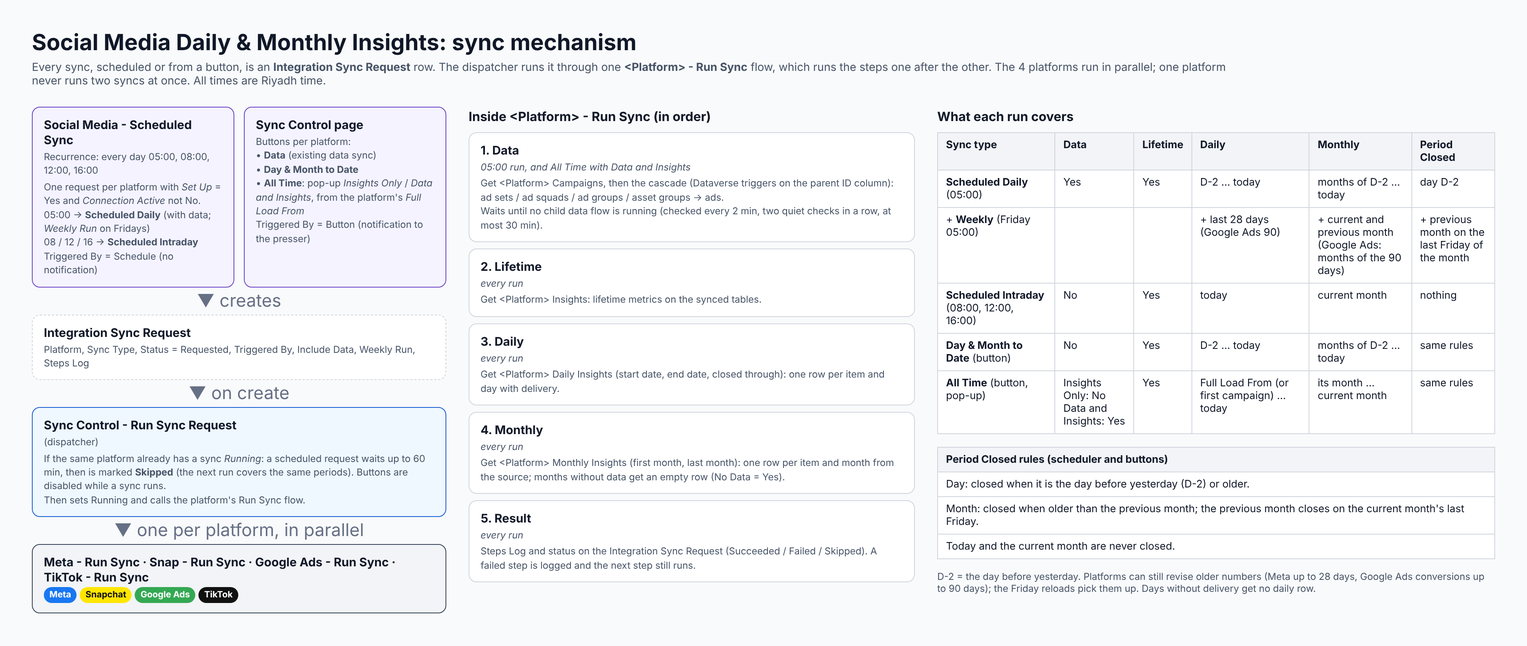
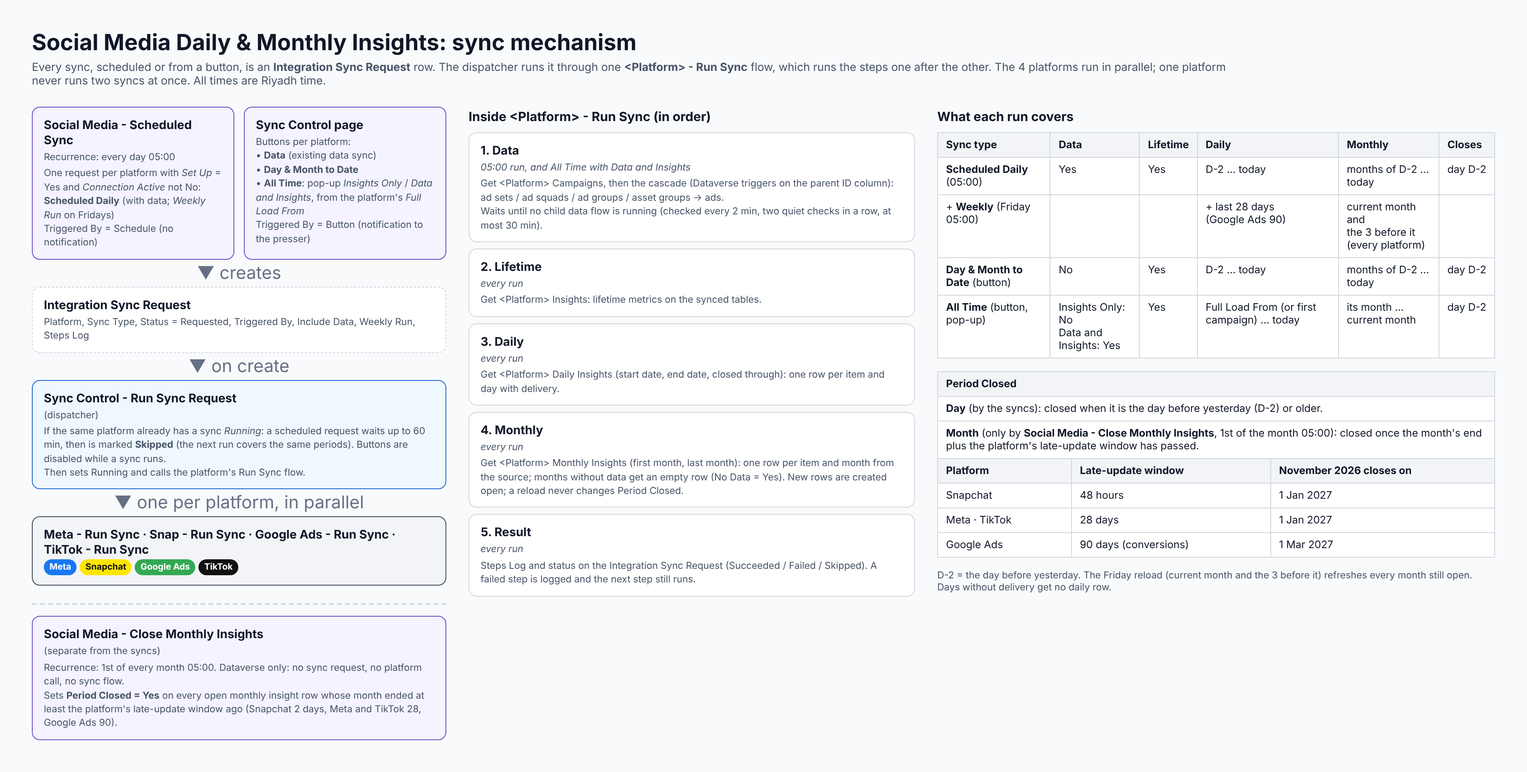
PLAN.md and scheduler diagrams: 05:00-only schedule, 4-month Friday reload, monthly closing flow
Claude-Session: https://claude.ai/code/session_011EPu7rmFPCknKk8Qn1gdBf

Changed region(s): [[0.0, 0.0308, 0.9627, 0.9556]]

diff --git a/daily-insights/diagrams/scheduler-timetable.html b/daily-insights/diagrams/scheduler-timetable.html
@@ -27,7 +27,8 @@ small { color: #475467; }
 <p class="lead">Which flows run when (Riyadh time), and which period each insight step covers. Every column runs
 for all 4 platforms in parallel: <span class="tag" style="background:#1877F2;color:#fff">Meta</span><span class="tag" style="background:#FFE600;color:#111">Snapchat</span><span class="tag" style="background:#34A853;color:#fff">Google Ads</span><span class="tag" style="background:#111111;color:#fff">TikTok</span>. A sync that would overlap the same platform's running sync waits
 up to 60 minutes, then is Skipped. The Data button (data only) works as before: the dispatcher runs the campaigns flow directly.</p>
-<table><tr><th>Level</th><th>Flows (Meta · Snap · Google Ads · TikTok)</th><th class=c>05:00<br><small>Sat – Thu</small></th><th class=c>05:00<br><small>Friday</small></th><th class=c>05:00<br><small>last Friday of the month</small></th><th class=c>08:00 · 12:00 · 16:00<br><small>every day</small></th><th class=c>Button<br><small>Data</small></th><th class=c>Button<br><small>Day &amp; Month to Date</small></th><th class=c>Button<br><small>All Time</small></th></tr><tr style="background:#F4F3FF"><td class="g">Main</td><td><b>Social Media - Scheduled Sync</b><br><small>Recurrence; creates one sync request per platform</small></td><td class=c><span class="y">●</span> Scheduled Daily</td><td class=c><span class="y">●</span> Scheduled Daily + Weekly Run</td><td class=c><span class="y">●</span> Scheduled Daily + Weekly Run</td><td class=c><span class="y">●</span> Scheduled Intraday</td><td class=c><span class="n">–</span></td><td class=c><span class="n">–</span></td><td class=c><span class="n">–</span></td></tr><tr style="background:#F4F3FF"><td class="g">Main</td><td><b>Sync Control - Run Sync Request</b><br><small>Dispatcher: runs when a sync request is created</small></td><td class=c><span class="y">●</span></td><td class=c><span class="y">●</span></td><td class=c><span class="y">●</span></td><td class=c><span class="y">●</span></td><td class=c><span class="y">●</span></td><td class=c><span class="y">●</span></td><td class=c><span class="y">●</span></td></tr><tr style="background:#F2F4F7"><td class="g">Platform</td><td><b>Meta - Run Sync<br>Snap - Run Sync<br>Google Ads - Run Sync<br>TikTok - Run Sync</b><br><small>Run the steps below in order, one platform per flow</small></td><td class=c><span class="y">●</span></td><td class=c><span class="y">●</span></td><td class=c><span class="y">●</span></td><td class=c><span class="y">●</span></td><td class=c><span class="n">–</span><br><small>the dispatcher calls Step 1 directly</small></td><td class=c><span class="y">●</span></td><td class=c><span class="y">●</span></td></tr><tr style="background:#fff"><td class="g">Step 1: Data</td><td><b>Get Meta Campaigns<br>Get Snap Campaigns<br>Get Google Ads Campaigns<br>Get TikTok Campaigns</b><br><small>Campaigns; starts the cascade below</small></td><td class=c><span class="y">●</span></td><td class=c><span class="y">●</span></td><td class=c><span class="y">●</span></td><td class=c><span class="n">–</span></td><td class=c><span class="y">●</span></td><td class=c><span class="n">–</span></td><td class=c><span class="y">●</span> with <i>Data and Insights</i></td></tr><tr style="background:#FCFCFD"><td class="g">↳ cascade</td><td><b>Get Meta AdSets<br>Get Snap Ad Squads<br>Get Google Ads Ad Groups<br>Get Google Ads Asset Groups<br>Get TikTok Ad Groups</b><br><small>Run on their own when their parent rows change</small></td><td class=c><span class="y">●</span></td><td class=c><span class="y">●</span></td><td class=c><span class="y">●</span></td><td class=c><span class="n">–</span></td><td class=c><span class="y">●</span></td><td class=c><span class="n">–</span></td><td class=c><span class="y">●</span> with <i>Data and Insights</i></td></tr><tr style="background:#FCFCFD"><td class="g">↳ cascade</td><td><b>Get Meta Advertisements<br>Get Snap Advertisements<br>Get Google Ads Advertisements<br>Get TikTok Advertisements</b><br><small>Run on their own when their parent rows change</small></td><td class=c><span class="y">●</span></td><td class=c><span class="y">●</span></td><td class=c><span class="y">●</span></td><td class=c><span class="n">–</span></td><td class=c><span class="y">●</span></td><td class=c><span class="n">–</span></td><td class=c><span class="y">●</span> with <i>Data and Insights</i></td></tr><tr style="background:#fff"><td class="g">Step 2: Lifetime</td><td><b>Get Meta Insights<br>Get Snap Insights<br>Get Google Ads Insights<br>Get TikTok Insights</b><br><small>Lifetime metrics on the 13 synced tables</small></td><td class=c><span class="y">●</span></td><td class=c><span class="y">●</span></td><td class=c><span class="y">●</span></td><td class=c><span class="y">●</span></td><td class=c><span class="n">–</span></td><td class=c><span class="y">●</span></td><td class=c><span class="y">●</span></td></tr><tr style="background:#fff"><td class="g">Step 3: Daily</td><td><b>Get Meta Daily Insights<br>Get Snap Daily Insights<br>Get Google Ads Daily Insights<br>Get TikTok Daily Insights</b><br><small>Daily insight tables</small></td><td class=c><span class="y">●</span> D-2 … today<br><small>closes D-2</small></td><td class=c><span class="y">●</span> last 28 days<br><small>Google Ads 90; closes D-2</small></td><td class=c><span class="y">●</span> last 28 days<br><small>Google Ads 90; closes D-2</small></td><td class=c><span class="y">●</span> today</td><td class=c><span class="n">–</span></td><td class=c><span class="y">●</span> D-2 … today</td><td class=c><span class="y">●</span> Full Load From … today</td></tr><tr style="background:#fff"><td class="g">Step 4: Monthly</td><td><b>Get Meta Monthly Insights<br>Get Snap Monthly Insights<br>Get Google Ads Monthly Insights<br>Get TikTok Monthly Insights</b><br><small>Monthly insight tables (empty months included)</small></td><td class=c><span class="y">●</span> months of D-2 … today</td><td class=c><span class="y">●</span> current + previous month<br><small>Google Ads: months of the 90 days</small></td><td class=c><span class="y">●</span> current + previous month<br><small>closes the previous month</small></td><td class=c><span class="y">●</span> current month</td><td class=c><span class="n">–</span></td><td class=c><span class="y">●</span> months of D-2 … today</td><td class=c><span class="y">●</span> every month from the start</td></tr></table>
-<p class="note" style="margin-top:12px">D-2 = the day before yesterday. Typical duration of a run in UAT: 05:00
-12 – 60 min, intraday 5 – 35 min per platform; an All Time full load takes hours (Snap / TikTok ≈ 19 h).</p>
+<table><tr><th>Level</th><th>Flows (Meta · Snap · Google Ads · TikTok)</th><th class=c>05:00<br><small>Sat – Thu</small></th><th class=c>05:00<br><small>Friday</small></th><th class=c>05:00<br><small>1st of the month</small></th><th class=c>Button<br><small>Data</small></th><th class=c>Button<br><small>Day &amp; Month to Date</small></th><th class=c>Button<br><small>All Time</small></th></tr><tr style="background:#F4F3FF"><td class="g">Main</td><td><b>Social Media - Scheduled Sync</b><br><small>Recurrence; creates one sync request per platform</small></td><td class=c><span class="y">●</span> Scheduled Daily</td><td class=c><span class="y">●</span> Scheduled Daily + Weekly Run</td><td class=c><span class="y">●</span> Scheduled Daily<br><small>(+ Weekly Run if a Friday)</small></td><td class=c><span class="n">–</span></td><td class=c><span class="n">–</span></td><td class=c><span class="n">–</span></td></tr><tr style="background:#F4F3FF"><td class="g">Main</td><td><b>Sync Control - Run Sync Request</b><br><small>Dispatcher: runs when a sync request is created</small></td><td class=c><span class="y">●</span></td><td class=c><span class="y">●</span></td><td class=c><span class="y">●</span></td><td class=c><span class="y">●</span></td><td class=c><span class="y">●</span></td><td class=c><span class="y">●</span></td></tr><tr style="background:#F2F4F7"><td class="g">Platform</td><td><b>Meta - Run Sync<br>Snap - Run Sync<br>Google Ads - Run Sync<br>TikTok - Run Sync</b><br><small>Run the steps below in order, one platform per flow</small></td><td class=c><span class="y">●</span></td><td class=c><span class="y">●</span></td><td class=c><span class="y">●</span></td><td class=c><span class="n">–</span><br><small>the dispatcher calls Step 1 directly</small></td><td class=c><span class="y">●</span></td><td class=c><span class="y">●</span></td></tr><tr style="background:#fff"><td class="g">Step 1: Data</td><td><b>Get Meta Campaigns<br>Get Snap Campaigns<br>Get Google Ads Campaigns<br>Get TikTok Campaigns</b><br><small>Campaigns; starts the cascade below</small></td><td class=c><span class="y">●</span></td><td class=c><span class="y">●</span></td><td class=c><span class="y">●</span></td><td class=c><span class="y">●</span></td><td class=c><span class="n">–</span></td><td class=c><span class="y">●</span> with <i>Data and Insights</i></td></tr><tr style="background:#FCFCFD"><td class="g">↳ cascade</td><td><b>Get Meta AdSets<br>Get Snap Ad Squads<br>Get Google Ads Ad Groups<br>Get Google Ads Asset Groups<br>Get TikTok Ad Groups</b><br><small>Run on their own when their parent rows change</small></td><td class=c><span class="y">●</span></td><td class=c><span class="y">●</span></td><td class=c><span class="y">●</span></td><td class=c><span class="y">●</span></td><td class=c><span class="n">–</span></td><td class=c><span class="y">●</span> with <i>Data and Insights</i></td></tr><tr style="background:#FCFCFD"><td class="g">↳ cascade</td><td><b>Get Meta Advertisements<br>Get Snap Advertisements<br>Get Google Ads Advertisements<br>Get TikTok Advertisements</b><br><small>Run on their own when their parent rows change</small></td><td class=c><span class="y">●</span></td><td class=c><span class="y">●</span></td><td class=c><span class="y">●</span></td><td class=c><span class="y">●</span></td><td class=c><span class="n">–</span></td><td class=c><span class="y">●</span> with <i>Data and Insights</i></td></tr><tr style="background:#fff"><td class="g">Step 2: Lifetime</td><td><b>Get Meta Insights<br>Get Snap Insights<br>Get Google Ads Insights<br>Get TikTok Insights</b><br><small>Lifetime metrics on the 13 synced tables</small></td><td class=c><span class="y">●</span></td><td class=c><span class="y">●</span></td><td class=c><span class="y">●</span></td><td class=c><span class="n">–</span></td><td class=c><span class="y">●</span></td><td class=c><span class="y">●</span></td></tr><tr style="background:#fff"><td class="g">Step 3: Daily</td><td><b>Get Meta Daily Insights<br>Get Snap Daily Insights<br>Get Google Ads Daily Insights<br>Get TikTok Daily Insights</b><br><small>Daily insight tables</small></td><td class=c><span class="y">●</span> D-2 … today<br><small>closes D-2</small></td><td class=c><span class="y">●</span> last 28 days<br><small>Google Ads 90; closes D-2</small></td><td class=c><span class="y">●</span> as that day's run</td><td class=c><span class="n">–</span></td><td class=c><span class="y">●</span> D-2 … today</td><td class=c><span class="y">●</span> Full Load From … today</td></tr><tr style="background:#fff"><td class="g">Step 4: Monthly</td><td><b>Get Meta Monthly Insights<br>Get Snap Monthly Insights<br>Get Google Ads Monthly Insights<br>Get TikTok Monthly Insights</b><br><small>Monthly insight tables (empty months included); never closes</small></td><td class=c><span class="y">●</span> months of D-2 … today</td><td class=c><span class="y">●</span> current month + the 3 before it<br><small>every platform</small></td><td class=c><span class="y">●</span> as that day's run</td><td class=c><span class="n">–</span></td><td class=c><span class="y">●</span> months of D-2 … today</td><td class=c><span class="y">●</span> every month from the start</td></tr><tr style="background:#FEF6EE"><td class="g">Closing</td><td><b>Social Media - Close Monthly Insights</b><br><small>Separate from the syncs (Dataverse only): sets Period Closed on monthly rows</small></td><td class=c><span class="n">–</span></td><td class=c><span class="n">–</span></td><td class=c><span class="y">●</span> months past the late-update window<br><small>Snapchat 2 days · Meta, TikTok 28 · Google Ads 90</small></td><td class=c><span class="n">–</span></td><td class=c><span class="n">–</span></td><td class=c><span class="n">–</span></td></tr></table>
+<p class="note" style="margin-top:12px">D-2 = the day before yesterday. Typical duration of a 05:00 run in UAT:
+12 – 60 min per platform; an All Time full load takes hours (Snap / TikTok ≈ 19 h). Revised 3 November 2026: no
+08:00 / 12:00 / 16:00 runs; months are closed only by Social Media - Close Monthly Insights.</p>
 </div></body></html>

diff --git a/daily-insights/diagrams/scheduler-mechanism.html b/daily-insights/diagrams/scheduler-mechanism.html
@@ -26,9 +26,9 @@ parallel; one platform never runs two syncs at once. All times are Riyadh time.<
  <div style="width:520px">
   <div style="display:flex; gap:12px">
    <div class="flow main" style="flex:1"><b>Social Media - Scheduled Sync</b>
-    <small>Recurrence: every day 05:00, 08:00, 12:00, 16:00</small>
-    <small>One request per platform with <i>Set Up</i> = Yes and <i>Connection Active</i> not No.<br>
-    05:00 → <b>Scheduled Daily</b> (with data; <i>Weekly Run</i> on Fridays)<br>08 / 12 / 16 → <b>Scheduled Intraday</b><br>
+    <small>Recurrence: every day 05:00</small>
+    <small>One request per platform with <i>Set Up</i> = Yes and <i>Connection Active</i> not No:
+    <b>Scheduled Daily</b> (with data; <i>Weekly Run</i> on Fridays)<br>
     Triggered By = Schedule (no notification)</small></div>
    <div class="flow main" style="flex:1"><b>Sync Control page</b>
     <small>Buttons per platform:<br>• <b>Data</b> (existing data sync)<br>• <b>Day &amp; Month to Date</b><br>
@@ -46,32 +46,39 @@ parallel; one platform never runs two syncs at once. All times are Riyadh time.<
   <div class="arrow">▼ one per platform, in parallel</div>
   <div class="flow run"><b>Meta - Run Sync · Snap - Run Sync · Google Ads - Run Sync · TikTok - Run Sync</b>
    <small><span class="tag" style="background:#1877F2;color:#fff">Meta</span><span class="tag" style="background:#FFE600;color:#111">Snapchat</span><span class="tag" style="background:#34A853;color:#fff">Google Ads</span><span class="tag" style="background:#111111;color:#fff">TikTok</span></small></div>
+  <div style="border-top:2px dashed #D0D5DD; margin:22px 0 14px"></div>
+  <div class="flow main"><b>Social Media - Close Monthly Insights</b> <small>(separate from the syncs)</small>
+   <small>Recurrence: 1st of every month 05:00. Dataverse only: no sync request, no platform call, no sync flow.<br>
+   Sets <b>Period Closed = Yes</b> on every open monthly insight row whose month ended at least the platform's
+   late-update window ago (Snapchat 2 days, Meta and TikTok 28, Google Ads 90).</small></div>
  </div>
  <div style="width:560px">
   <div style="font-size:16px; font-weight:700; margin:2px 0 10px">Inside &lt;Platform&gt; - Run Sync (in order)</div>
-  <div class="flow" style="margin-bottom:8px"><b>1. Data</b><small><i>05:00 run, and All Time with <i>Data and Insights</i></i></small><small>Get &lt;Platform&gt; Campaigns, then the cascade (Dataverse triggers on the parent ID column): ad sets / ad squads / ad groups / asset groups → ads.<br>Waits until no child data flow is running (checked every 2 min, two quiet checks in a row, at most 30 min).</small></div><div class="flow" style="margin-bottom:8px"><b>2. Lifetime</b><small><i>every run</i></small><small>Get &lt;Platform&gt; Insights: lifetime metrics on the synced tables.</small></div><div class="flow" style="margin-bottom:8px"><b>3. Daily</b><small><i>every run</i></small><small>Get &lt;Platform&gt; Daily Insights (start date, end date, closed through): one row per item and day with delivery.</small></div><div class="flow" style="margin-bottom:8px"><b>4. Monthly</b><small><i>every run</i></small><small>Get &lt;Platform&gt; Monthly Insights (first month, last month): one row per item and month from the source; months without data get an empty row (No Data = Yes).</small></div><div class="flow" style="margin-bottom:8px"><b>5. Result</b><small><i>every run</i></small><small>Steps Log and status on the Integration Sync Request (Succeeded / Failed / Skipped). A failed step is logged and the next step still runs.</small></div>
+  <div class="flow" style="margin-bottom:8px"><b>1. Data</b><small><i>05:00 run, and All Time with <i>Data and Insights</i></i></small><small>Get &lt;Platform&gt; Campaigns, then the cascade (Dataverse triggers on the parent ID column): ad sets / ad squads / ad groups / asset groups → ads.<br>Waits until no child data flow is running (checked every 2 min, two quiet checks in a row, at most 30 min).</small></div><div class="flow" style="margin-bottom:8px"><b>2. Lifetime</b><small><i>every run</i></small><small>Get &lt;Platform&gt; Insights: lifetime metrics on the synced tables.</small></div><div class="flow" style="margin-bottom:8px"><b>3. Daily</b><small><i>every run</i></small><small>Get &lt;Platform&gt; Daily Insights (start date, end date, closed through): one row per item and day with delivery.</small></div><div class="flow" style="margin-bottom:8px"><b>4. Monthly</b><small><i>every run</i></small><small>Get &lt;Platform&gt; Monthly Insights (first month, last month): one row per item and month from the source; months without data get an empty row (No Data = Yes). New rows are created open; a reload never changes Period Closed.</small></div><div class="flow" style="margin-bottom:8px"><b>5. Result</b><small><i>every run</i></small><small>Steps Log and status on the Integration Sync Request (Succeeded / Failed / Skipped). A failed step is logged and the next step still runs.</small></div>
  </div>
  <div style="width:700px">
   <div style="font-size:16px; font-weight:700; margin:2px 0 10px">What each run covers</div>
   
 <table>
-<tr><th>Sync type</th><th>Data</th><th>Lifetime</th><th>Daily</th><th>Monthly</th><th>Period Closed</th></tr>
-<tr><td><b>Scheduled Daily</b> (05:00)</td><td>Yes</td><td>Yes</td><td>D-2 … today</td><td>months of D-2 … today</td><td>day D-2</td></tr>
-<tr><td>+ <b>Weekly</b> (Friday 05:00)</td><td></td><td></td><td>+ last 28 days<br>(Google Ads 90)</td><td>+ current and previous month<br>(Google Ads: months of the 90 days)</td><td>+ previous month on the<br>last Friday of the month</td></tr>
-<tr><td><b>Scheduled Intraday</b> (08:00, 12:00, 16:00)</td><td>No</td><td>Yes</td><td>today</td><td>current month</td><td>nothing</td></tr>
-<tr><td><b>Day &amp; Month to Date</b> (button)</td><td>No</td><td>Yes</td><td>D-2 … today</td><td>months of D-2 … today</td><td>same rules</td></tr>
-<tr><td><b>All Time</b> (button, pop-up)</td><td>Insights Only: No<br>Data and Insights: Yes</td><td>Yes</td><td>Full Load From (or first campaign) … today</td><td>its month … current month</td><td>same rules</td></tr>
+<tr><th>Sync type</th><th>Data</th><th>Lifetime</th><th>Daily</th><th>Monthly</th><th>Closes</th></tr>
+<tr><td><b>Scheduled Daily</b> (05:00)</td><td>Yes</td><td>Yes</td><td>D-2 … today</td><td>months of D-2 … today</td><td style="white-space:nowrap">day D-2</td></tr>
+<tr><td>+ <b>Weekly</b> (Friday 05:00)</td><td></td><td></td><td>+ last 28 days<br>(Google Ads 90)</td><td>current month and<br>the 3 before it<br>(every platform)</td><td></td></tr>
+<tr><td><b>Day &amp; Month to Date</b> (button)</td><td>No</td><td>Yes</td><td>D-2 … today</td><td>months of D-2 … today</td><td style="white-space:nowrap">day D-2</td></tr>
+<tr><td><b>All Time</b> (button, pop-up)</td><td>Insights Only: No<br>Data and Insights: Yes</td><td>Yes</td><td>Full Load From (or first campaign) … today</td><td>its month … current month</td><td style="white-space:nowrap">day D-2</td></tr>
 </table>
   <div style="height:16px"></div>
   
 <table>
-<tr><th>Period Closed rules (scheduler and buttons)</th></tr>
-<tr><td>Day: closed when it is the day before yesterday (D-2) or older.</td></tr>
-<tr><td>Month: closed when older than the previous month; the previous month closes on the current month's last Friday.</td></tr>
-<tr><td>Today and the current month are never closed.</td></tr>
+<tr><th colspan="3">Period Closed</th></tr>
+<tr><td colspan="3"><b>Day</b> (by the syncs): closed when it is the day before yesterday (D-2) or older.</td></tr>
+<tr><td colspan="3"><b>Month</b> (only by <b>Social Media - Close Monthly Insights</b>, 1st of the month 05:00): closed once
+the month's end plus the platform's late-update window has passed.</td></tr>
+<tr><th>Platform</th><th>Late-update window</th><th>November 2026 closes on</th></tr>
+<tr><td>Snapchat</td><td>48 hours</td><td>1 Jan 2027</td></tr>
+<tr><td>Meta · TikTok</td><td>28 days</td><td>1 Jan 2027</td></tr>
+<tr><td>Google Ads</td><td>90 days (conversions)</td><td>1 Mar 2027</td></tr>
 </table>
-  <p class="note" style="margin-top:14px">D-2 = the day before yesterday. Platforms can still revise older numbers
-  (Meta up to 28 days, Google Ads conversions up to 90 days); the Friday reloads pick them up.
-  Days without delivery get no daily row.</p>
+  <p class="note" style="margin-top:14px">D-2 = the day before yesterday. The Friday reload (current month and the
+  3 before it) refreshes every month still open. Days without delivery get no daily row.</p>
  </div>
 </div></div></body></html>

diff --git a/daily-insights/diagrams/build_diagrams.py b/daily-insights/diagrams/build_diagrams.py
@@ -223,7 +223,8 @@ def mechanism():
         ("3. Daily", "every run", "Get &lt;Platform&gt; Daily Insights (start date, end date, closed through): one row "
          "per item and day with delivery."),
         ("4. Monthly", "every run", "Get &lt;Platform&gt; Monthly Insights (first month, last month): one row per item and "
-         "month from the source; months without data get an empty row (No Data = Yes)."),
+         "month from the source; months without data get an empty row (No Data = Yes). New rows are created open; "
+         "a reload never changes Period Closed."),
         ("5. Result", "every run", "Steps Log and status on the Integration Sync Request (Succeeded / Failed / "
          "Skipped). A failed step is logged and the next step still runs."),
     ]
@@ -232,19 +233,22 @@ def mechanism():
         for s, w, d in steps)
     cover = """
 <table>
-<tr><th>Sync type</th><th>Data</th><th>Lifetime</th><th>Daily</th><th>Monthly</th><th>Period Closed</th></tr>
-<tr><td><b>Scheduled Daily</b> (05:00)</td><td>Yes</td><td>Yes</td><td>D-2 … today</td><td>months of D-2 … today</td><td>day D-2</td></tr>
-<tr><td>+ <b>Weekly</b> (Friday 05:00)</td><td></td><td></td><td>+ last 28 days<br>(Google Ads 90)</td><td>+ current and previous month<br>(Google Ads: months of the 90 days)</td><td>+ previous month on the<br>last Friday of the month</td></tr>
-<tr><td><b>Scheduled Intraday</b> (08:00, 12:00, 16:00)</td><td>No</td><td>Yes</td><td>today</td><td>current month</td><td>nothing</td></tr>
-<tr><td><b>Day &amp; Month to Date</b> (button)</td><td>No</td><td>Yes</td><td>D-2 … today</td><td>months of D-2 … today</td><td>same rules</td></tr>
-<tr><td><b>All Time</b> (button, pop-up)</td><td>Insights Only: No<br>Data and Insights: Yes</td><td>Yes</td><td>Full Load From (or first campaign) … today</td><td>its month … current month</td><td>same rules</td></tr>
+<tr><th>Sync type</th><th>Data</th><th>Lifetime</th><th>Daily</th><th>Monthly</th><th>Closes</th></tr>
+<tr><td><b>Scheduled Daily</b> (05:00)</td><td>Yes</td><td>Yes</td><td>D-2 … today</td><td>months of D-2 … today</td><td style="white-space:nowrap">day D-2</td></tr>
+<tr><td>+ <b>Weekly</b> (Friday 05:00)</td><td></td><td></td><td>+ last 28 days<br>(Google Ads 90)</td><td>current month and<br>the 3 before it<br>(every platform)</td><td></td></tr>
+<tr><td><b>Day &amp; Month to Date</b> (button)</td><td>No</td><td>Yes</td><td>D-2 … today</td><td>months of D-2 … today</td><td style="white-space:nowrap">day D-2</td></tr>
+<tr><td><b>All Time</b> (button, pop-up)</td><td>Insights Only: No<br>Data and Insights: Yes</td><td>Yes</td><td>Full Load From (or first campaign) … today</td><td>its month … current month</td><td style="white-space:nowrap">day D-2</td></tr>
 </table>"""
     closed = """
 <table>
-<tr><th>Period Closed rules (scheduler and buttons)</th></tr>
-<tr><td>Day: closed when it is the day before yesterday (D-2) or older.</td></tr>
-<tr><td>Month: closed when older than the previous month; the previous month closes on the current month's last Friday.</td></tr>
-<tr><td>Today and the current month are never closed.</td></tr>
+<tr><th colspan="3">Period Closed</th></tr>
+<tr><td colspan="3"><b>Day</b> (by the syncs): closed when it is the day before yesterday (D-2) or older.</td></tr>
+<tr><td colspan="3"><b>Month</b> (only by <b>Social Media - Close Monthly Insights</b>, 1st of the month 05:00): closed once
+the month's end plus the platform's late-update window has passed.</td></tr>
+<tr><th>Platform</th><th>Late-update window</th><th>November 2026 closes on</th></tr>
+<tr><td>Snapchat</td><td>48 hours</td><td>1 Jan 2027</td></tr>
+<tr><td>Meta · TikTok</td><td>28 days</td><td>1 Jan 2027</td></tr>
+<tr><td>Google Ads</td><td>90 days (conversions)</td><td>1 Mar 2027</td></tr>
 </table>"""
     return f"""<!doctype html><html><head><meta charset="utf-8"><style>{CSS}</style></head><body><div class="page">
 <h1>Social Media Daily &amp; Monthly Insights: sync mechanism</h1>
@@ -255,9 +259,9 @@ parallel; one platform never runs two syncs at once. All times are Riyadh time.<
  <div style="width:520px">
   <div style="display:flex; gap:12px">
    <div class="flow main" style="flex:1"><b>Social Media - Scheduled Sync</b>
-    <small>Recurrence: every day 05:00, 08:00, 12:00, 16:00</small>
-    <small>One request per platform with <i>Set Up</i> = Yes and <i>Connection Active</i> not No.<br>
-    05:00 → <b>Scheduled Daily</b> (with data; <i>Weekly Run</i> on Fridays)<br>08 / 12 / 16 → <b>Scheduled Intraday</b><br>
+    <small>Recurrence: every day 05:00</small>
+    <small>One request per platform with <i>Set Up</i> = Yes and <i>Connection Active</i> not No:
+    <b>Scheduled Daily</b> (with data; <i>Weekly Run</i> on Fridays)<br>
     Triggered By = Schedule (no notification)</small></div>
    <div class="flow main" style="flex:1"><b>Sync Control page</b>
     <small>Buttons per platform:<br>• <b>Data</b> (existing data sync)<br>• <b>Day &amp; Month to Date</b><br>
@@ -275,6 +279,11 @@ parallel; one platform never runs two syncs at once. All times are Riyadh time.<
   <div class="arrow">▼ one per platform, in parallel</div>
   <div class="flow run"><b>Meta - Run Sync · Snap - Run Sync · Google Ads - Run Sync · TikTok - Run Sync</b>
    <small>{platform_tags()}</small></div>
+  <div style="border-top:2px dashed #D0D5DD; margin:22px 0 14px"></div>
+  <div class="flow main"><b>Social Media - Close Monthly Insights</b> <small>(separate from the syncs)</small>
+   <small>Recurrence: 1st of every month 05:00. Dataverse only: no sync request, no platform call, no sync flow.<br>
+   Sets <b>Period Closed = Yes</b> on every open monthly insight row whose month ended at least the platform's
+   late-update window ago (Snapchat 2 days, Meta and TikTok 28, Google Ads 90).</small></div>
  </div>
  <div style="width:560px">
   <div style="font-size:16px; font-weight:700; margin:2px 0 10px">Inside &lt;Platform&gt; - Run Sync (in order)</div>
@@ -285,9 +294,8 @@ parallel; one platform never runs two syncs at once. All times are Riyadh time.<
   {cover}
   <div style="height:16px"></div>
   {closed}
-  <p class="note" style="margin-top:14px">D-2 = the day before yesterday. Platforms can still revise older numbers
-  (Meta up to 28 days, Google Ads conversions up to 90 days); the Friday reloads pick them up.
-  Days without delivery get no daily row.</p>
+  <p class="note" style="margin-top:14px">D-2 = the day before yesterday. The Friday reload (current month and the
+  3 before it) refreshes every month still open. Days without delivery get no daily row.</p>
  </div>
 </div></div></body></html>"""
 
@@ -309,43 +317,45 @@ def timetable():
         "run": ["Meta - Run Sync", "Snap - Run Sync", "Google Ads - Run Sync", "TikTok - Run Sync"],
     }
     cols = ["05:00<br><small>Sat – Thu</small>", "05:00<br><small>Friday</small>",
-            "05:00<br><small>last Friday of the month</small>", "08:00 · 12:00 · 16:00<br><small>every day</small>",
+            "05:00<br><small>1st of the month</small>",
             "Button<br><small>Data</small>", "Button<br><small>Day &amp; Month to Date</small>",
             "Button<br><small>All Time</small>"]
     Y = '<span class="y">●</span>'
     N = '<span class="n">–</span>'
     rows = [
         ("Main", "Social Media - Scheduled Sync", "Recurrence; creates one sync request per platform",
-         [Y + " Scheduled Daily", Y + " Scheduled Daily + Weekly Run", Y + " Scheduled Daily + Weekly Run",
-          Y + " Scheduled Intraday", N, N, N]),
+         [Y + " Scheduled Daily", Y + " Scheduled Daily + Weekly Run",
+          Y + " Scheduled Daily<br><small>(+ Weekly Run if a Friday)</small>", N, N, N]),
         ("Main", "Sync Control - Run Sync Request", "Dispatcher: runs when a sync request is created",
-         [Y] * 7),
+         [Y] * 6),
         ("Platform", " · ".join(names["run"]), "Run the steps below in order, one platform per flow",
-         [Y] * 4 + [N + "<br><small>the dispatcher calls Step 1 directly</small>", Y, Y]),
+         [Y] * 3 + [N + "<br><small>the dispatcher calls Step 1 directly</small>", Y, Y]),
         ("Step 1: Data", " · ".join(names["data"]), "Campaigns; starts the cascade below",
-         [Y, Y, Y, N, Y, N, Y + " with <i>Data and Insights</i>"]),
+         [Y, Y, Y, Y, N, Y + " with <i>Data and Insights</i>"]),
         ("cascade", " · ".join(names["child1"]), "Run on their own when their parent rows change",
-         [Y, Y, Y, N, Y, N, Y + " with <i>Data and Insights</i>"]),
+         [Y, Y, Y, Y, N, Y + " with <i>Data and Insights</i>"]),
         ("cascade", " · ".join(names["child2"]), "Run on their own when their parent rows change",
-         [Y, Y, Y, N, Y, N, Y + " with <i>Data and Insights</i>"]),
+         [Y, Y, Y, Y, N, Y + " with <i>Data and Insights</i>"]),
         ("Step 2: Lifetime", " · ".join(names["life"]), "Lifetime metrics on the 13 synced tables",
-         [Y] * 4 + [N, Y, Y]),
+         [Y] * 3 + [N, Y, Y]),
         ("Step 3: Daily", " · ".join(names["daily"]), "Daily insight tables",
          [Y + " D-2 … today<br><small>closes D-2</small>",
           Y + " last 28 days<br><small>Google Ads 90; closes D-2</small>",
-          Y + " last 28 days<br><small>Google Ads 90; closes D-2</small>",
-          Y + " today", N, Y + " D-2 … today", Y + " Full Load From … today"]),
-        ("Step 4: Monthly", " · ".join(names["monthly"]), "Monthly insight tables (empty months included)",
-         [Y + " months of D-2 … today", Y + " current + previous month<br><small>Google Ads: months of the 90 days</small>",
-          Y + " current + previous month<br><small>closes the previous month</small>",
-          Y + " current month", N, Y + " months of D-2 … today", Y + " every month from the start"]),
+          Y + " as that day's run", N, Y + " D-2 … today", Y + " Full Load From … today"]),
+        ("Step 4: Monthly", " · ".join(names["monthly"]), "Monthly insight tables (empty months included); never closes",
+         [Y + " months of D-2 … today", Y + " current month + the 3 before it<br><small>every platform</small>",
+          Y + " as that day's run", N, Y + " months of D-2 … today", Y + " every month from the start"]),
+        ("Closing", "Social Media - Close Monthly Insights",
+         "Separate from the syncs (Dataverse only): sets Period Closed on monthly rows",
+         [N, N, Y + " months past the late-update window<br><small>Snapchat 2 days · Meta, TikTok 28 · "
+          "Google Ads 90</small>", N, N, N]),
     ]
-    group_colour = {"Main": "#F4F3FF", "Platform": "#F2F4F7", "cascade": "#FCFCFD"}
+    group_colour = {"Main": "#F4F3FF", "Platform": "#F2F4F7", "cascade": "#FCFCFD", "Closing": "#FEF6EE"}
     body = []
     for group, flows, what, cells in rows:
         bg = group_colour.get(group, "#fff")
         label = "↳ cascade" if group == "cascade" else group
-        flows = "<br>".join(flows.split(" · ")) if group not in ("Main",) else flows
+        flows = "<br>".join(flows.split(" · ")) if group not in ("Main", "Closing") else flows
         body.append(f'<tr style="background:{bg}"><td class="g">{label}</td><td><b>{flows}</b><br>'
                     f'<small>{what}</small></td>' + "".join(f"<td class=c>{c}</td>" for c in cells) + "</tr>")
     head = "".join(f"<th class=c>{c}</th>" for c in cols)
@@ -361,8 +371,9 @@ small { color: #475467; }
 for all 4 platforms in parallel: {platform_tags()}. A sync that would overlap the same platform's running sync waits
 up to 60 minutes, then is Skipped. The Data button (data only) works as before: the dispatcher runs the campaigns flow directly.</p>
 <table><tr><th>Level</th><th>Flows (Meta · Snap · Google Ads · TikTok)</th>{head}</tr>{''.join(body)}</table>
-<p class="note" style="margin-top:12px">D-2 = the day before yesterday. Typical duration of a run in UAT: 05:00
-12 – 60 min, intraday 5 – 35 min per platform; an All Time full load takes hours (Snap / TikTok ≈ 19 h).</p>
+<p class="note" style="margin-top:12px">D-2 = the day before yesterday. Typical duration of a 05:00 run in UAT:
+12 – 60 min per platform; an All Time full load takes hours (Snap / TikTok ≈ 19 h). Revised 3 November 2026: no
+08:00 / 12:00 / 16:00 runs; months are closed only by Social Media - Close Monthly Insights.</p>
 </div></body></html>"""
 
 

diff --git a/daily-insights/PLAN.md b/daily-insights/PLAN.md
@@ -1,7 +1,7 @@
 # Social Media Daily and Monthly Insights: feasibility study and plan (AlSanidi-UAT)
 
 Status: **built in UAT (2026-10-29 → 2026-10-31): steps 1–12 done, full load finished, Social Media - Scheduled Sync
-turned on 2026-10-31 (first run 05:00 Riyadh).** Production is a separate request (decision 31). See §6 for the
+turned on 2026-10-31; scheduling revised 2026-11-03 (§5).** Production is a separate request (decision 31). See §6 for the
 results and for what differs from the plan below.
 The plan below was written before the build. It is based on read-only checks of UAT (tables, connectors, flows)
 and on each platform's official API documentation only.
@@ -38,9 +38,9 @@ Goal, for Meta, Snap, TikTok and Google Ads:
 | 13 | Months with no activity | **A month row is created even when there is no data**, so Power BI has no gaps: every month from the item's start month to the current (or end) month, metrics blank, **No Data** = Yes (may change later). Days with no activity get no row (§5.5) |
 | 14 | Daily history | **One full load per environment** (Sync Control *Update All Time*, from **Full Load From**), then the scheduler |
 | 15 | Monthly history | Same as 14 |
-| 16 | Daily refresh window | **3 days** at 05:00 (today, yesterday, the day before); today only at 08:00 / 12:00 / 16:00; last 28 days (Google Ads 90) on Fridays (§5) |
-| 17 | Previous month refresh | Reloaded every Friday (with the current month) until it is closed on the current month's last Friday; Google Ads reloads every month its 90 days touch (§5) |
-| 18 | Schedule | **05:00** daily (data + all insights), **08:00 / 12:00 / 16:00** (lifetime, today, current month), **Friday** reloads, last Friday closes the previous month (§5) |
+| 16 | Daily refresh window | **3 days** at 05:00 (today, yesterday, the day before); last 28 days (Google Ads 90) on Fridays (§5; 08:00 / 12:00 / 16:00 runs cancelled 2026-11-03) |
+| 17 | Previous month refresh | Every Friday reloads the current month and the 3 before it, every platform; months are closed by their own flow on the 1st once the platform's late-update window has passed (§5.4, revised 2026-11-03) |
+| 18 | Schedule | **05:00** daily (data + all insights), **Friday** reloads, **1st of the month** month closing in a separate flow (§5, revised 2026-11-03) |
 | 19 | Snap calls | **Option B**: add account-level calls to the Snap connector where Snap allows them (§1.3, explained) |
 | 20 | Meta connector | **Exported to the repo** (`connectors/meta-ads/`) before it is changed |
 | 21 | Sync Control | **3 buttons** per platform: *Data* (existing), *Update Day & Month to Date* (replaces *Insights*), *Update All Time* with an *Insights Only* / *Data and Insights* pop-up and **Full Load From** on the Integration Platform row (§3.3) |
@@ -293,8 +293,7 @@ Changes:
   - Sync Type gets new values: *Day & Month to Date*, *All Time*, *Scheduled Daily (05:00)*, *Scheduled Intraday*.
     The existing *Insights* value is kept for the history rows; the page no longer creates it.
   - New columns: **Include Data** (Yes/No, the pop-up's answer), **Triggered By** (Button / Schedule), **Weekly Run**
-    (Yes on Friday's 05:00 run), **Close Previous Month** (Yes on the last Friday of the month), **Steps Log** (text:
-    counts and timing per step).
+    (Yes on Friday's 05:00 run), **Steps Log** (text: counts and timing per step).
   - Status gets a new value: **Skipped** (§5.3).
 - **Page** (`sync-control.tsx`): the 3 buttons, the pop-up, and scheduled runs shown on the cards like button runs.
   Notifications are unchanged: only the person who pressed a button is notified (decision 22).
@@ -360,24 +359,27 @@ The 13 tables hold 3,669 items today: Meta 218, Snap 1,387, Google Ads 313, TikT
 
 ---
 
-## 5. Scheduling (agreed)
+## 5. Scheduling (agreed; revised 2026-11-03)
 
-All times are Riyadh time. "Today" and every date in a request are in the ad account's time zone (Google Ads and
-TikTok accounts are Asia/Riyadh; Meta and Snap are confirmed in the live check). The 4 platforms run in parallel; the
-steps of one platform run one after the other.
+All times are Riyadh time. "Today" and every date in a request are in the ad account's time zone (all four
+platforms' accounts are Asia/Riyadh). The 4 platforms run in parallel; the steps of one platform run one after the
+other.
+
+Revision of 3 November 2026: the 08:00, 12:00 and 16:00 runs are cancelled; the Friday run reloads the current month
+and the 3 before it; months are closed by their own flow on the 1st of the month (§5.4), no longer by the syncs.
 
 ### 5.1 When
 
-| When | Steps per platform |
-|---|---|
-| **Every day 05:00** | 1. **Data** (campaigns → cascade), then wait for the cascade (§5.2). 2. **Lifetime** insights on the main tables. 3. **Daily**: today (partial), yesterday, the day before yesterday; the day before yesterday gets Period Closed. 4. **Monthly**: every month those 3 days touch (normally the current month; on the 1st and 2nd also the previous month). |
-| **+ on Fridays (05:00 run)** | 5. **Daily** reload of the last **28 days** (Google Ads: **90 days**). 6. **Monthly** reload of the current and previous month (Google Ads: every month the 90 days touch). |
-| **+ on the last Friday of the month** | 7. The **previous month** gets Period Closed (after step 6 reloaded it). Example: September is closed on Friday 30 October. |
-| **08:00, 12:00, 16:00** | **Lifetime** insights; **daily**: today (partial); **monthly**: the current month. No data sync. |
+| When | Flow | Steps per platform |
+|---|---|---|
+| **Every day 05:00** | Social Media - Scheduled Sync | 1. **Data** (campaigns → cascade), then wait for the cascade (§5.2). 2. **Lifetime** insights on the main tables. 3. **Daily**: today (partial), yesterday, the day before yesterday; the day before yesterday gets Period Closed. 4. **Monthly**: every month those 3 days touch (normally the current month; on the 1st and 2nd also the previous month). |
+| **+ on Fridays (05:00 run)** | Social Media - Scheduled Sync | 5. **Daily** reload of the last **28 days** (Google Ads: **90 days**). 6. **Monthly** reload of the **current month and the 3 before it**, every platform (e.g. Friday 6 November: November month to date, October, September, August), which covers Google Ads' 90-day window. |
+| **1st of the month 05:00** | Social Media - Close Monthly Insights | **Closes months** (§5.4). Dataverse only: no sync request, platform call or sync flow. |
 
-The scheduler flow runs at 05:00, 08:00, 12:00 and 16:00. For each platform with *Set Up* = Yes and *Connection
-Active* not No, it creates one *Integration Sync Request* (Triggered By = Schedule; Weekly Run / Close Previous Month
-set on Fridays). The dispatcher runs it like a button press.
+The scheduler flow runs at 05:00. For each platform with *Set Up* = Yes and *Connection Active* not No, it creates
+one *Integration Sync Request* (Scheduled Daily, Triggered By = Schedule; *Weekly Run* on Fridays). The dispatcher
+runs it like a button press. Between runs, the Sync Control page's *Day & Month to Date* button refreshes lifetime,
+today and the current month on demand.
 
 ### 5.2 Order inside one run (\<Platform\> - Run Sync)
 
@@ -386,8 +388,9 @@ set on Fridays). The dispatcher runs it like a button press.
    data flows has a run in progress (checked every 2 minutes, two quiet checks in a row, at most 30 minutes). After 30
    minutes it continues and writes a warning in Steps Log.
 2. **Lifetime**: runs Get \<Platform\> Insights (unchanged flow).
-3. **Daily**: runs Get \<Platform\> Daily Insights with the date range.
-4. **Monthly**: runs Get \<Platform\> Monthly Insights with the months.
+3. **Daily**: runs Get \<Platform\> Daily Insights with the date range and the day it closes through.
+4. **Monthly**: runs Get \<Platform\> Monthly Insights with the months. New month rows are created open; a reload
+   never changes Period Closed.
 5. Writes Steps Log and the request status. A failed step is recorded and the run continues with the next step; the
    request ends **Failed** if any step failed.
 
@@ -401,30 +404,43 @@ set on Fridays). The dispatcher runs it like a button press.
 
 ### 5.4 Period Closed
 
-The same rules everywhere (scheduler and buttons):
-- **Day**: closed when it is the day before yesterday or older.
-- **Month**: closed when it is older than the previous month; the **previous month** is closed once the current month's
-  last Friday has come (the scheduler closes it on that Friday; a button run after that date closes it too).
-- Today and the current month are never closed.
-- Closed means the period is over and was refreshed after it ended. The platforms can still change older numbers
-  (Meta up to 28 days, Google Ads conversions up to 90 days), which the Friday reloads pick up.
+- **Day** (set by the syncs): closed when it is the day before yesterday or older. Today and yesterday are open.
+- **Month** (set only by **Social Media - Close Monthly Insights**, 1st of the month 05:00): a month is closed once the
+  platform can no longer change its numbers, that is once the month's end plus the platform's late-update window has
+  passed; it closes on the first 1st-of-month run after that.
+
+| Platform | Late-update window (official docs) | November 2026 closes on | Open months on 1 Dec 2026 |
+|---|---|---|---|
+| Snapchat | finalized after 48 hours | 1 Jan 2027 | Nov, Dec |
+| Meta | up to 28 days | 1 Jan 2027 | Nov, Dec |
+| TikTok | treated like Meta: 28 days | 1 Jan 2027 | Nov, Dec |
+| Google Ads | conversions up to 90 days | 1 Mar 2027 | Sep, Oct, Nov, Dec |
+
+- The flow sets Period Closed = Yes on every open monthly row whose month starts before the first day of the month
+  of (today + 1 − window days). A month row created later for an older month (e.g. a new item's full load) is closed
+  by the next run.
+- Today's month is never closed. The Friday reload (current month and the 3 before it) refreshes every month still
+  open, Google Ads included.
+- Applied on 3 November 2026: the Google Ads August and September 2026 rows (388) closed by the old rule were reopened.
 
 ### 5.5 Empty month rows
 
 - Every item in the 13 tables gets a row for **every month from its start month** (its platform start or create date)
   **to the current month**; for an item with an end date, up to its end month.
-- A month the platform returns nothing for gets a row with **blank** metrics and **No Data** = Yes.
+- A month the platform returns nothing for gets a row with **blank** metrics and **No Data** = Yes. A later reload that
+  finds data sets No Data back to No (8 items have data again after empty months: paused and restarted campaigns).
 - Days with no activity get no daily row.
 
 ### 5.6 What each sync type covers
 
-| Sync type | Data | Lifetime | Daily | Monthly | Closes |
+| Sync type | Data | Lifetime | Daily | Monthly | Closes days |
 |---|---|---|---|---|---|
 | Scheduled Daily (05:00) | Yes | Yes | D-2 … today | Months of D-2 … today | Day D-2 |
-| + Weekly (Friday) | | | + last 28 days (Google Ads 90) | + current and previous month (Google Ads: months of the 90 days) | + previous month on the last Friday |
-| Scheduled Intraday (08/12/16) | No | Yes | Today | Current month | Nothing |
-| Day & Month to Date (button) | No | Yes | D-2 … today | Months of D-2 … today | Per §5.4 |
-| All Time (button) | Pop-up choice | Yes | Full Load From … today | Its month … current month | Per §5.4 |
+| + Weekly (Friday) | | | + last 28 days (Google Ads 90) | Current month and the 3 before it | |
+| Day & Month to Date (button) | No | Yes | D-2 … today | Months of D-2 … today | Day D-2 |
+| All Time (button) | Pop-up choice | Yes | Full Load From … today | Its month … current month | Day D-2 |
+
+Months are closed by none of these: only by Social Media - Close Monthly Insights (§5.4).
 
 ---
 
@@ -456,7 +472,8 @@ Found during the full load and fixed in the flows (2026-10-31):
   until they were shared, so the checks were done in step 7's tests instead.
 - **Connectors:** saved in the **AlSanidi | Marketing Connectors** solution (where they already were), not in the
   new patch.
-- **Close Previous Month:** no separate column. The last Friday of the month closes the previous month (§5.4).
+- **Close Previous Month:** no column. Months were first closed by the last Friday's run; since 2026-11-03 they are
+  closed by Social Media - Close Monthly Insights on the 1st (§5.4).
 - **Days without delivery:** no daily row (impressions = 0 and spend = 0 are skipped on every platform; TikTok
   returns zero rows for every item otherwise).
 - **Snap reach before 2021:** left blank (§6.1).
